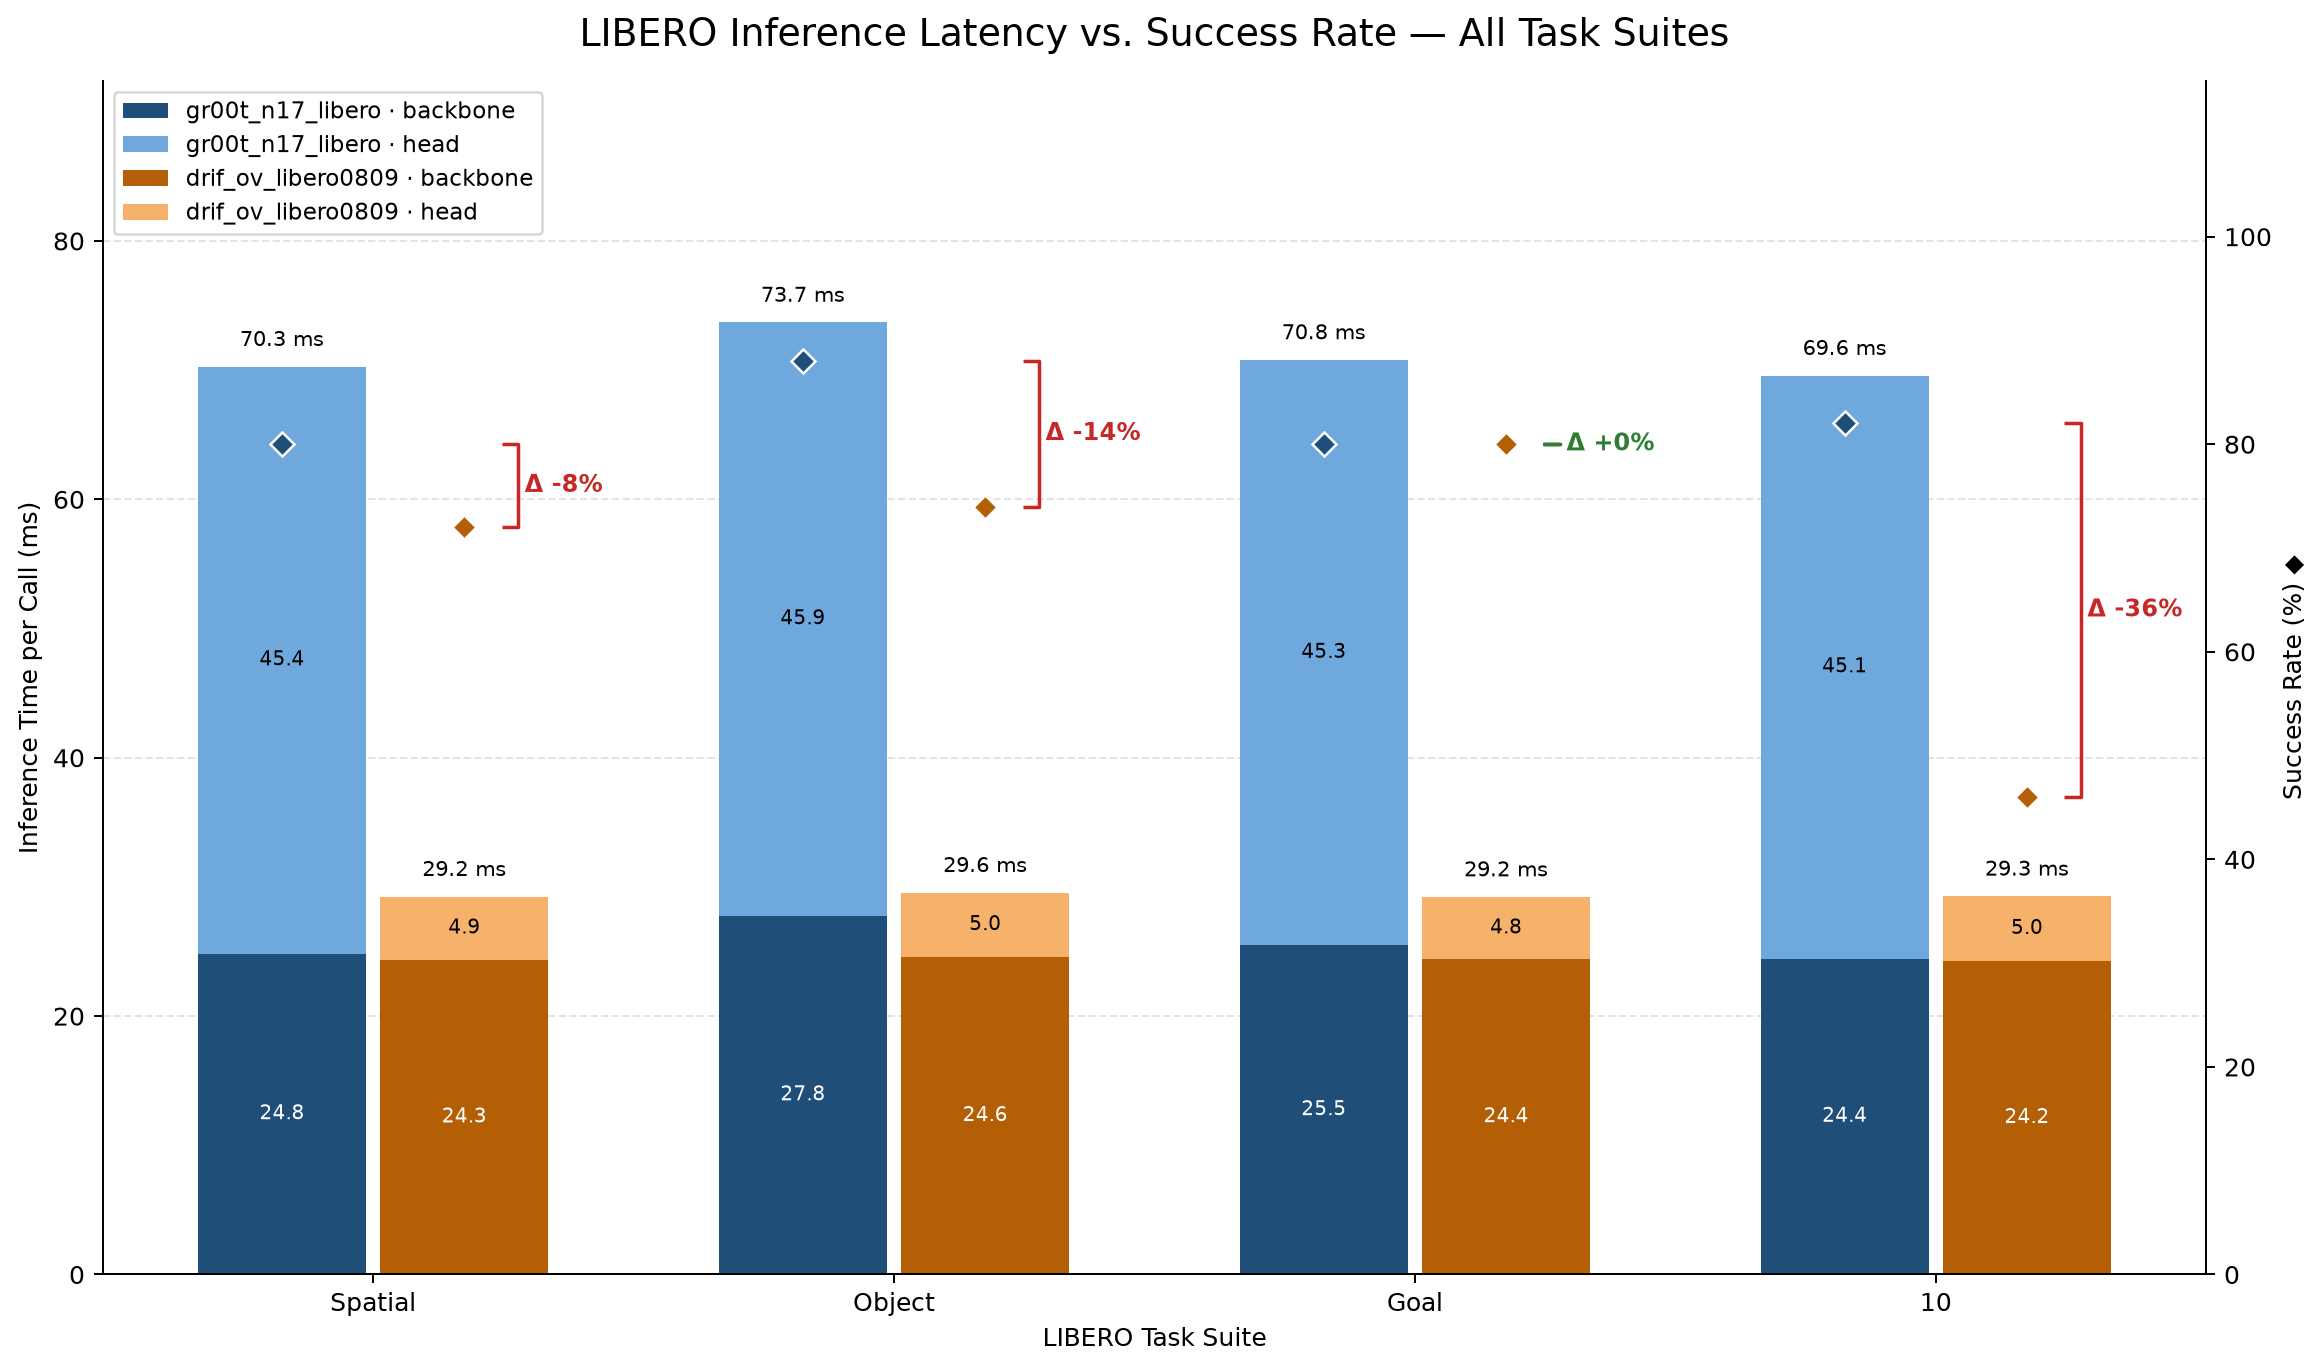
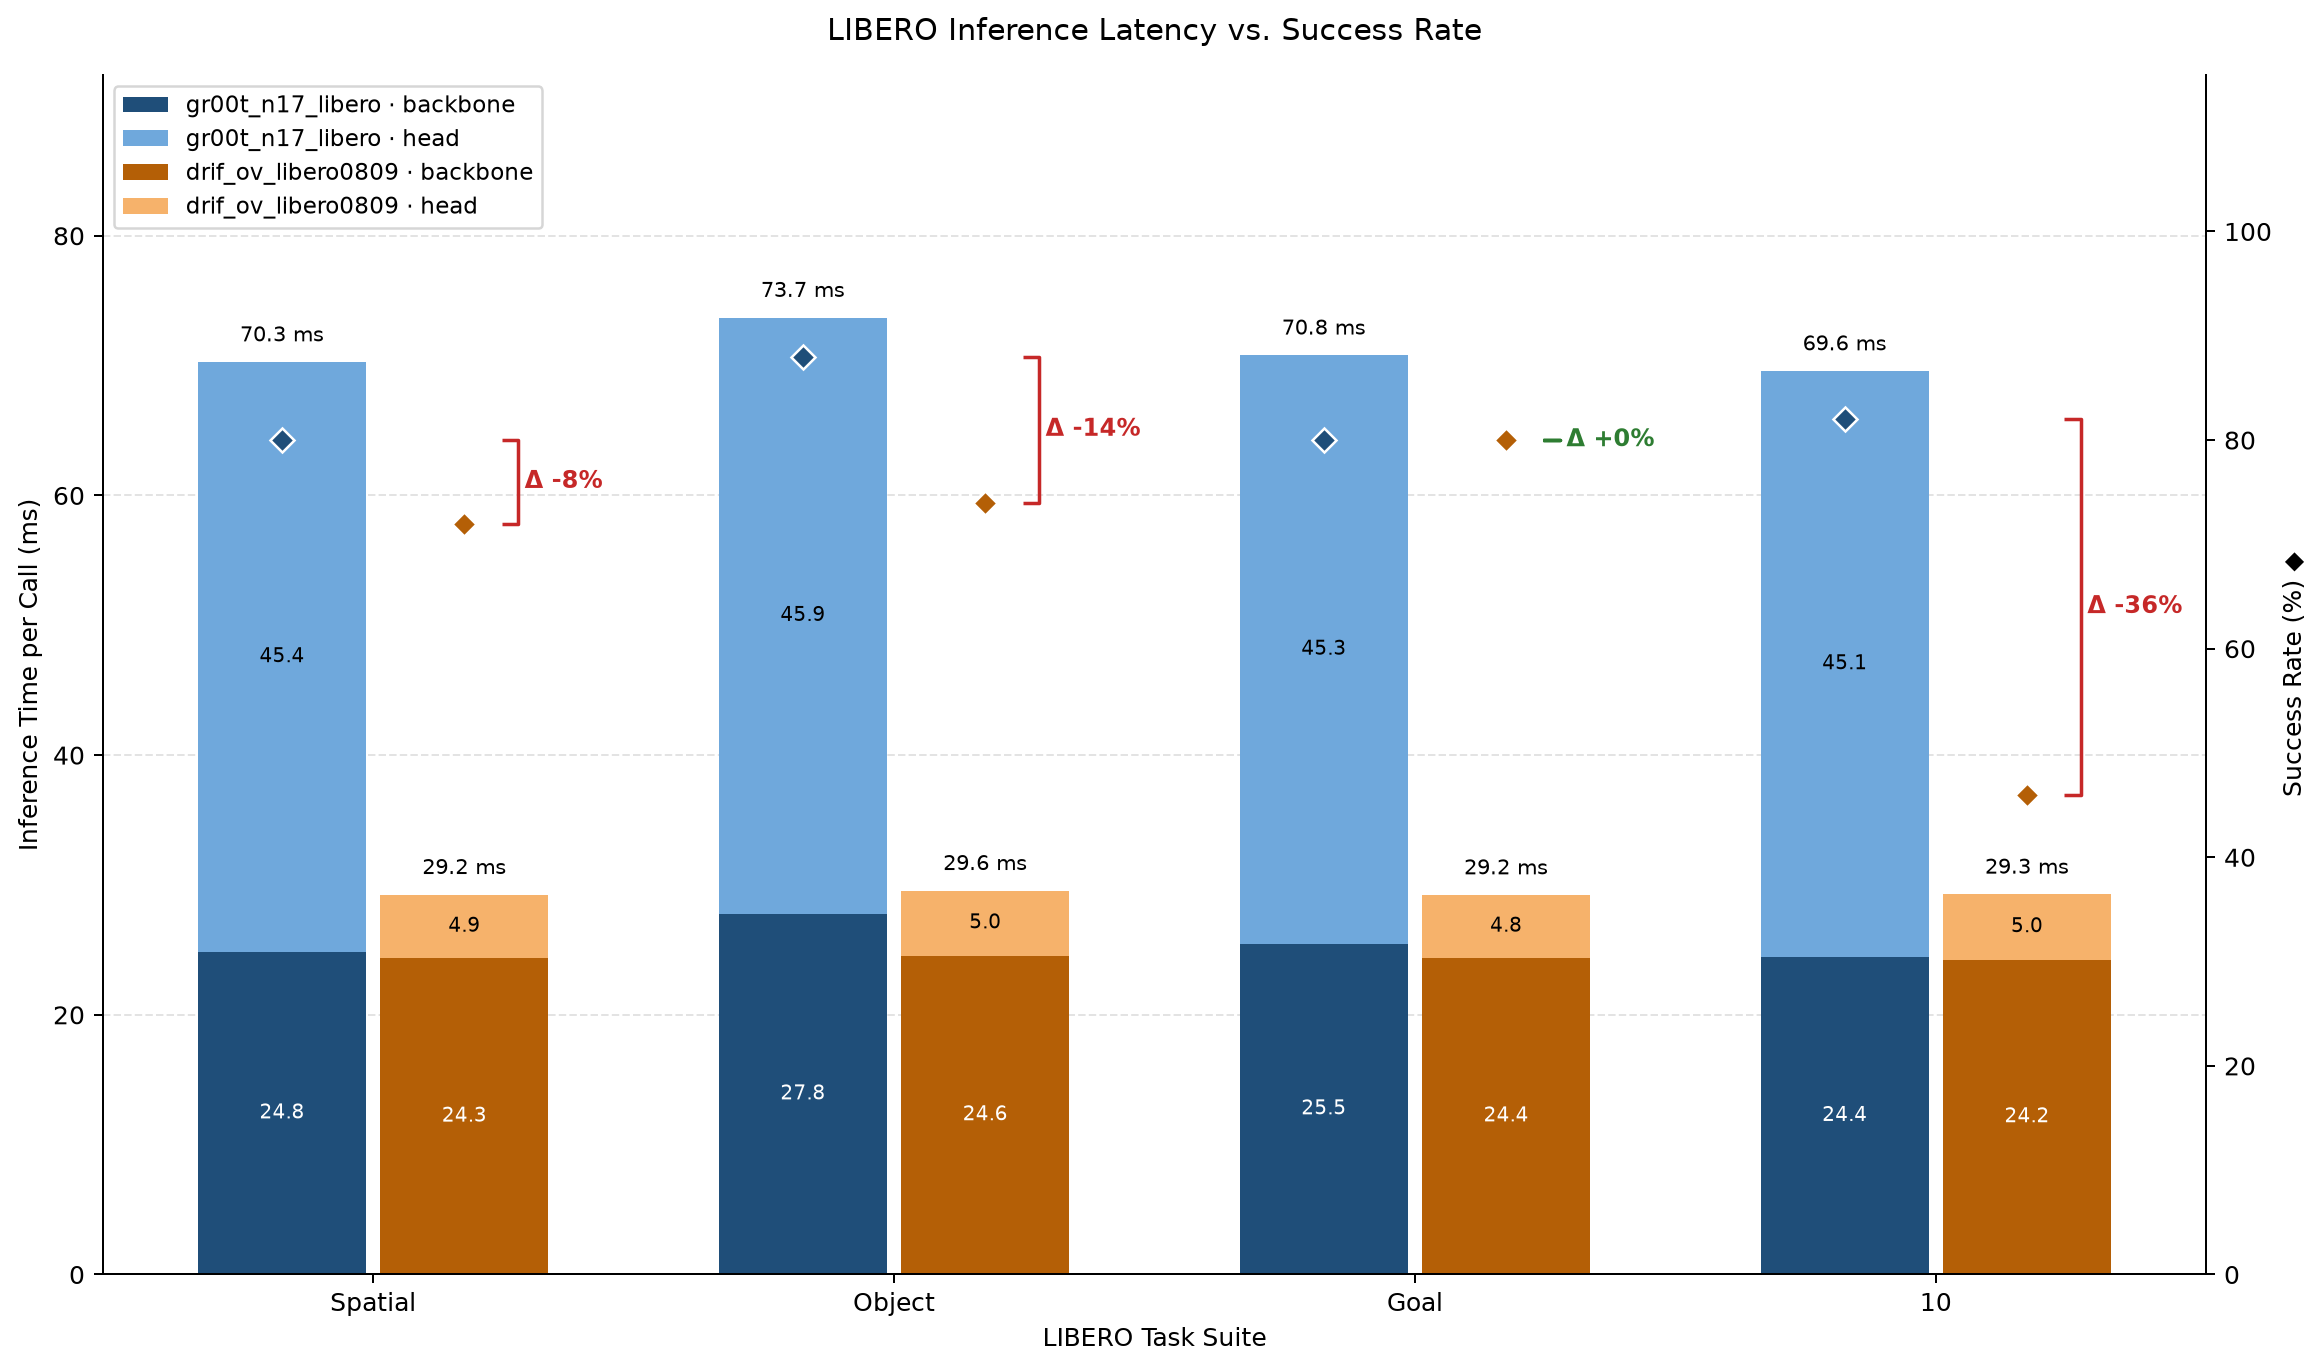
fix: update plot title for LIBERO inference latency summary

diff --git a/scripts/latency_test/plot_libero_summary.py b/scripts/latency_test/plot_libero_summary.py
@@ -127,7 +127,7 @@ def _plot(summaries: dict[str, dict], policies: list[str], output_path: Path) ->
     ax_success.set_ylim(0, 115)
     ax_success.spines[["top"]].set_visible(False)
 
-    ax.set_title("LIBERO Inference Latency vs. Success Rate — All Task Suites", fontsize=15, pad=14)
+    ax.set_title("LIBERO Inference Latency vs. Success Rate", fontsize=12, pad=14)
     ax.legend(loc="upper left", fontsize=9, ncol=1)
 
     fig.savefig(output_path, dpi=180, bbox_inches="tight", facecolor="white")
